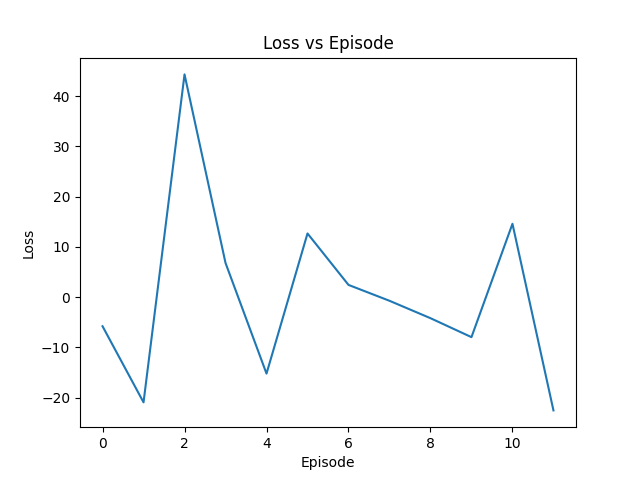
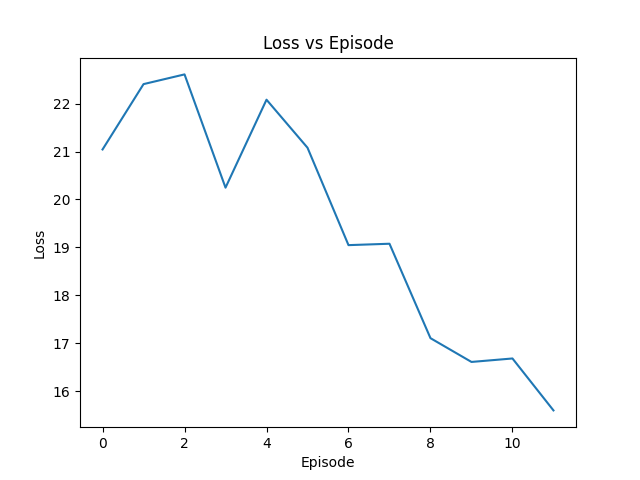
Seeing frozen loss

diff --git a/frozenlake_irl.py b/frozenlake_irl.py
@@ -63,6 +63,7 @@ class IrlAgentBayesian(frozenlake_agent.FrozenLakeQLearning):
         games_lengths = []
         losses = []
 
+        print("Training weights...")
         for i in range(N):
             self.Q_table = np.zeros((self.env.observation_space.n, self.env.action_space.n))
             games_lengths.append(self.run())
@@ -72,16 +73,21 @@ class IrlAgentBayesian(frozenlake_agent.FrozenLakeQLearning):
             loss.backward()
             optimizer.step()
             losses.append(loss.item())
+            print("loss.item(): ", loss.item())
 
         return games_lengths, losses
     
 if __name__ == "__main__":
     # get time to run
+    print('Running IRL FrozenLake')
     time_start = time.time()
-    expert = frozenlake_agent.FrozenLakeQLearning(num_episodes=10)
+    expert = frozenlake_agent.FrozenLakeQLearning(num_episodes=500)
     lengths = expert.run()
+    print(f"Time to run: {time.time() - time_start}")
+    print(f"Q_table: {expert.Q_table}")
+    expert.draw_table()
 
-    expert_feature_expectation = expert.get_feature_expectation()
+    expert_feature_expectation = expert.get_feature_expectation(num_episodes=500)
     agent = IrlAgentBayesian(expert_feature_expectation)
 
     games_lengths, losses = agent.train_weights(N=12)
@@ -102,7 +108,7 @@ if __name__ == "__main__":
 
 
     # save plot
-    plt.savefig('irl_cartpole_rewards.png')
+    plt.savefig('irl_frozenlake_rewards.png')
 
     # plot losses
 
@@ -111,7 +117,7 @@ if __name__ == "__main__":
     plt.xlabel('Episode')
     plt.ylabel('Loss')
     plt.title('Loss vs Episode')
-    plt.savefig('irl_cartpole_loss.png')
+    plt.savefig('irl_frozenlake_loss.png')
 
 
 

diff --git a/frozenlake_agent.py b/frozenlake_agent.py
@@ -32,11 +32,12 @@ class FrozenLakeQLearning:
         return max(self.min_lr, min(1., 1. - math.log10((t + 1) / self.decay)))
 
     def run(self):
+        print("Running...")
         total_reward = [0] * self.num_episodes
         for t in range(self.num_episodes):
             current_state = self.env.reset()[0]
             done = False
-            print(f"Episode {t}")
+            #print(f"Episode {t}")
             while not done:
                 epsilon = self.get_epsilon(t)
                 action = self.choose_action(current_state, epsilon)
@@ -70,11 +71,13 @@ class FrozenLakeQLearning:
 
     def get_feature_expectation(self, gamma=0.99, num_episodes=100):
         feature_expectation = np.zeros(self.env.observation_space.n)
+        print("Feature Expectation:")
         for _ in range(num_episodes):
+            #print("Episode ", _)
             done = False
             current_state = self.env.reset()[0]
             t = 0
-            while not done:
+            while not done and t < 1000:
                 action = self.choose_action(current_state, 0)
                 obs, reward, done, _, _ = self.env.step(action)
                 current_state = obs
